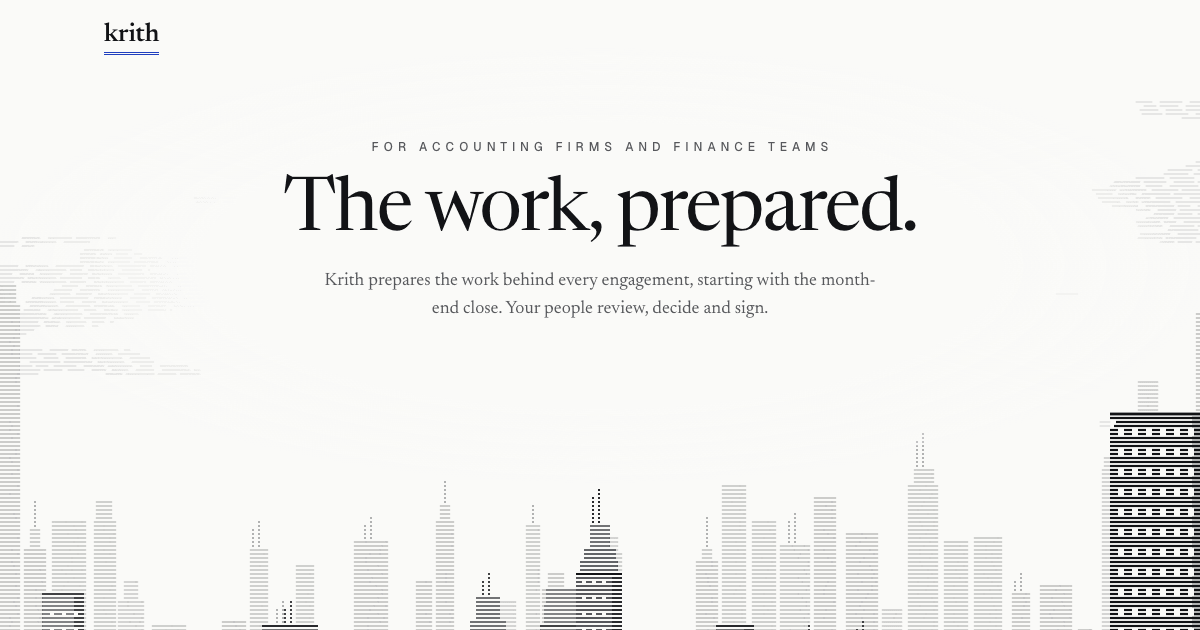
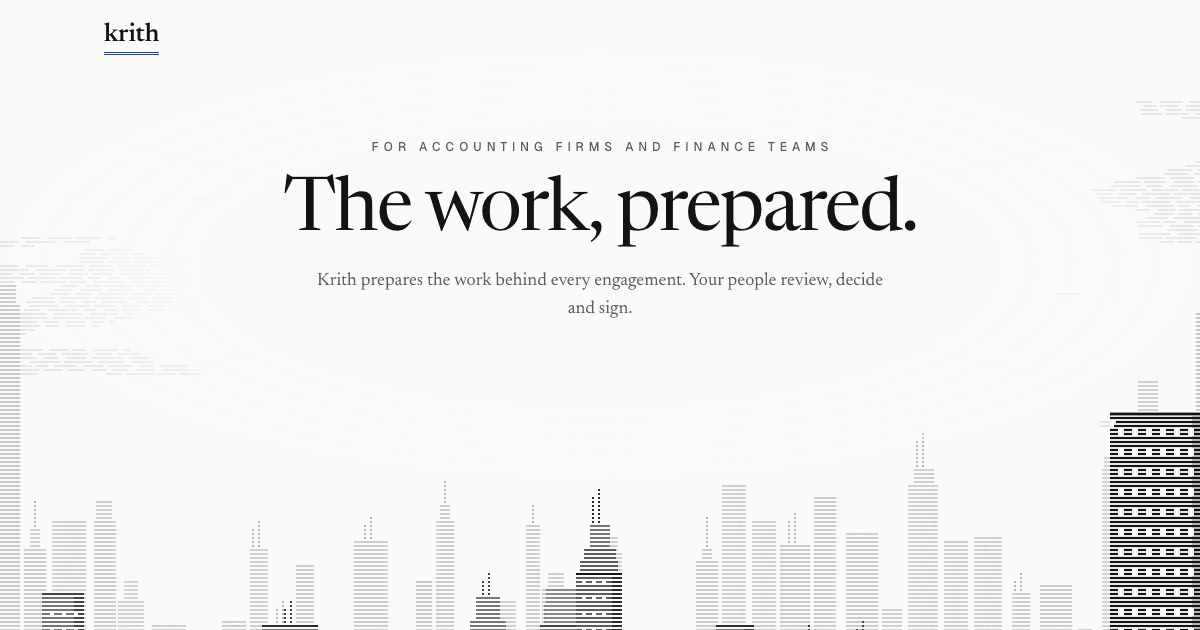
Public site: Krith as a whole, not the month-end close
The home title is the tagline again, "Krith · The work, prepared.".
Titles, descriptions, the company data, llms.txt and the pages' own
words describe Krith as AI agents that prepare the work behind every
engagement, rather than defining it by the month-end close: the home
and About ledes, About's why and its next section ("More of the work,
over time"), the FAQ's first answers, Contact's lede, example and
steps, and the privacy notice's lede (dated 12 October 2026). The
preview card is captured again from the new hero. Mechanics that need
the word stay as they are.

Changed region(s): [[0.2467, 0.4222, 0.74, 0.5127]]

diff --git a/apps/frontend/src/features/marketing/About.tsx b/apps/frontend/src/features/marketing/About.tsx
@@ -27,13 +27,13 @@ export function About() {
         <p className="k-label">About Krith</p>
         <h1>Krith means done.</h1>
         <p className="k-lede">
-          From the Sanskrit <i>kṛta</i>: done, made, accomplished. Krith prepares the work behind every engagement, starting with the month-end close, so your people can review, decide and sign.
+          From the Sanskrit <i>kṛta</i>: done, made, accomplished. Krith prepares the work behind every engagement, so your people can review, decide and sign.
         </p>
       </div>
       <section className="k-why" aria-labelledby="why-title">
         <h2 id="why-title">Why Krith</h2>
         <div>
-          <p>Much of a month-end close is preparation: gathering statements, matching every line, tracing each difference and drafting the entries. The judgement that matters comes at the end, and it belongs to the people who sign.</p>
+          <p>Much of accounting work is preparation: gathering statements, matching every line, tracing each difference and drafting the entries. The judgement that matters comes at the end, and it belongs to the people who sign.</p>
           <p>Krith gives that preparation to a team of agents and keeps every decision with your firm. Each figure carries its source, so whoever signs can see why it is right.</p>
         </div>
       </section>
@@ -70,10 +70,10 @@ export function About() {
         </div>
       </section>
       <section className="k-why" aria-labelledby="next-title">
-        <h2 id="next-title">Starting with the close</h2>
+        <h2 id="next-title">More of the work, over time</h2>
         <div>
-          <p>The month-end close is the work every engagement leans on. It is where much of the preparation sits, and where a missed detail travels furthest. So that is where Krith begins.</p>
-          <p>Next, we mean to take on the books between closes, the handoff at year end and the cash decisions that follow. Each joins only when the work before it holds up, under the same rules: agents prepare, every figure keeps its source, and a person decides.</p>
+          <p>Every engagement rests on the same preparation: gathering the records, matching them, tracing what doesn’t agree and drafting what a person will decide. That is the work Krith takes on.</p>
+          <p>We mean to take on more of it over time: the books day to day, the handoff at year end, the cash decisions that follow. Each joins only when the work before it holds up, under the same rules: agents prepare, every figure keeps its source, and a person decides.</p>
         </div>
       </section>
       <div className="k-after">

diff --git a/apps/frontend/index.html b/apps/frontend/index.html
@@ -1,2 +1,2 @@
 <!doctype html>
-<html lang="en"><head><meta charset="UTF-8" /><meta name="referrer" content="no-referrer" /><meta name="viewport" content="width=device-width, initial-scale=1.0" /><meta name="theme-color" content="#fafaf8" /><meta name="description" content="Krith prepares the work behind every engagement, starting with the month-end close. Your people review, decide and sign." /><title>Krith · The work, prepared.</title><link rel="icon" href="/favicon.ico" sizes="32x32" /><link rel="apple-touch-icon" href="/apple-touch-icon.png" /><meta property="og:type" content="website" /><meta property="og:site_name" content="Krith" /><meta property="og:title" content="Krith · The work, prepared." /><meta property="og:description" content="Krith prepares the work behind every engagement, starting with the month-end close. Your people review, decide and sign." /><meta property="og:url" content="https://getkrith.com/" /><meta property="og:image" content="https://getkrith.com/og.png" /><meta property="og:image:width" content="1200" /><meta property="og:image:height" content="630" /><meta property="og:image:alt" content="Krith: the work, prepared." /><meta name="twitter:card" content="summary_large_image" /></head><body><div id="root"></div><script type="module" src="/src/main.tsx"></script></body></html>
+<html lang="en"><head><meta charset="UTF-8" /><meta name="referrer" content="no-referrer" /><meta name="viewport" content="width=device-width, initial-scale=1.0" /><meta name="theme-color" content="#fafaf8" /><meta name="description" content="Krith prepares the work behind every engagement. Your people review, decide and sign." /><title>Krith · The work, prepared.</title><link rel="icon" href="/favicon.ico" sizes="32x32" /><link rel="apple-touch-icon" href="/apple-touch-icon.png" /><meta property="og:type" content="website" /><meta property="og:site_name" content="Krith" /><meta property="og:title" content="Krith · The work, prepared." /><meta property="og:description" content="Krith prepares the work behind every engagement. Your people review, decide and sign." /><meta property="og:url" content="https://getkrith.com/" /><meta property="og:image" content="https://getkrith.com/og.png" /><meta property="og:image:width" content="1200" /><meta property="og:image:height" content="630" /><meta property="og:image:alt" content="Krith: the work, prepared." /><meta name="twitter:card" content="summary_large_image" /></head><body><div id="root"></div><script type="module" src="/src/main.tsx"></script></body></html>

diff --git a/apps/frontend/src/features/marketing/meta.ts b/apps/frontend/src/features/marketing/meta.ts
@@ -4,15 +4,15 @@ export type PageMeta = { title: string; description: string };
 
 const PAGES: Record<string, PageMeta> = {
   "/": {
-    title: "Krith · The work, prepared. AI agents for the month-end close",
-    description: "Krith’s AI agents prepare the work behind every engagement for accounting firms, starting with the month-end close. Your people review, decide and sign.",
+    title: "Krith · The work, prepared.",
+    description: "Krith’s AI agents prepare the work behind every engagement for accounting firms and finance teams. Your people review, decide and sign.",
   },
   "/about": {
-    title: "About Krith · Agents prepare the close, people sign",
-    description: "Krith means done. Its AI agents take on the preparation behind a month-end close, and every decision stays with the accounting firm that signs.",
+    title: "About Krith · Agents prepare, people sign",
+    description: "Krith means done. Its AI agents take on the preparation behind an accounting firm’s work, and every decision stays with the people who sign.",
   },
   "/faq": {
-    title: "Krith FAQ · AI close preparation for accounting firms",
+    title: "Krith FAQ · AI agents for accounting firms",
     description: "What accounting firms ask about Krith: what its AI agents prepare, who approves the work, where client data is stored, and how to start.",
   },
   "/security": {
@@ -24,8 +24,8 @@ const PAGES: Record<string, PageMeta> = {
     description: "How Krith handles information on its website and in the Krith workspace: what is collected, who sees it, where it is stored and your choices.",
   },
   "/contact": {
-    title: "Talk to us · See Krith prepare one of your closes",
-    description: "Tell us how your accounting firm works and where month-end takes its time. A person reads every note and replies, then shows you the work, prepared.",
+    title: "Talk to us · Krith",
+    description: "Tell us how your accounting firm works and where its hours go. A person reads every note and replies, then shows you the work, prepared.",
   },
   "/login": {
     title: "Log in · Krith",

diff --git a/apps/frontend/src/features/marketing/Faq.tsx b/apps/frontend/src/features/marketing/Faq.tsx
@@ -12,9 +12,9 @@ const TOPICS: Topic[] = [
     mark: "PR",
     name: "The product",
     entries: [
-      { q: "What is Krith?", a: "A team of AI agents that prepares the work behind an accounting firm’s engagements, starting with the month-end close. The agents do the preparation; your people review it, decide and sign." },
-      { q: "Who is it for?", a: "Accounting firms and finance teams that close books every month, for their clients or for their own company." },
-      { q: "What does Krith prepare?", a: "The work that comes before a signature: gathering statements and documents, matching statement lines to the ledger, tracing each difference to its source, drafting entries and schedules, and drafting questions for whatever is missing. A close arrives ready for review, with what needs a decision on top." },
+      { q: "What is Krith?", a: "A team of AI agents that prepares the work behind an accounting firm’s engagements. The agents do the preparation; your people review it, decide and sign." },
+      { q: "Who is it for?", a: "Accounting firms and finance teams that keep and review books, for their clients or for their own company." },
+      { q: "What does Krith prepare?", a: "The work that comes before a signature: gathering statements and documents, matching statement lines to the ledger, tracing each difference to its source, drafting entries and schedules, and drafting questions for whatever is missing. The work arrives ready for review, with what needs a decision on top." },
       { q: "Does it replace our accounting software?", a: "No. Your ledger stays the book of record. Krith reads it once a firm member connects it, and writes to it only an entry a person has approved, one at a time. Writing stays off until your firm turns it on." },
       { q: "Which ledgers does it connect to?", a: "QuickBooks Online and Xero, connected by a firm member for each client. If your clients keep their books somewhere else, talk to us." },
     ],

diff --git a/apps/frontend/src/features/marketing/Home.tsx b/apps/frontend/src/features/marketing/Home.tsx
@@ -13,7 +13,7 @@ export function Home() {
       <Hero />
       <AgentsAtWork />
       <section className="k-col k-start" id="start" aria-labelledby="start-title">
-        <h2 id="start-title">See one of your closes, prepared.</h2>
+        <h2 id="start-title">See your own work, prepared.</h2>
         <p className="k-lede">Tell us how your firm works. We’ll show you what the agents prepare, and what they leave for you.</p>
         <div className="k-signhere">
           <span className="k-x" aria-hidden="true">
@@ -56,7 +56,7 @@ function Hero() {
       <div className="k-copy" ref={copy}>
         <p className="k-eyebrow">For accounting firms and finance teams</p>
         <h1 id="title">The work, prepared.</h1>
-        <p className="k-sub">Krith prepares the work behind every engagement, starting with the month-end close. Your people review, decide and sign.</p>
+        <p className="k-sub">Krith prepares the work behind every engagement. Your people review, decide and sign.</p>
         <span className="k-bracket">
           <Link className="k-pill k-pill-lg" to="/contact">
             Talk to us <span aria-hidden="true">→</span>
@@ -145,7 +145,7 @@ function AgentsAtWork() {
         <span>Prepared to the cent.</span>
         <span className="k-yours">Signed by you.</span>
       </h2>
-      <p className="k-lede">On every close, a team of agents gathers the evidence, matches every line, traces each difference and drafts the entries. You review their work and sign.</p>
+      <p className="k-lede">On every engagement, a team of agents gathers the evidence, matches every line, traces each difference and drafts the entries. You review their work and sign.</p>
       <div className="k-stage">
         <figure className="k-ledger" aria-label="Illustrative bank reconciliation prepared by agents and signed by a reviewer">
           <div className="k-lhead">

diff --git a/apps/frontend/src/features/marketing/Contact.tsx b/apps/frontend/src/features/marketing/Contact.tsx
@@ -43,7 +43,7 @@ export function Contact() {
       <div className="k-page-head">
         <p className="k-label">Contact</p>
         <h1>Talk to us.</h1>
-        <p className="k-lede">Tell us how your firm works and where month-end takes its time. A person reads every note and replies.</p>
+        <p className="k-lede">Tell us how your firm works and where its hours go. A person reads every note and replies.</p>
       </div>
       <div className="k-contact">
         <div>
@@ -73,7 +73,7 @@ export function Contact() {
                 <label htmlFor="contact-note">
                   What should we know? <small>Optional</small>
                 </label>
-                <textarea id="contact-note" name="note" rows={4} maxLength={4000} placeholder="For example: 40 clients on QuickBooks Online, and most closes take a week." />
+                <textarea id="contact-note" name="note" rows={4} maxLength={4000} placeholder="For example: 40 clients on QuickBooks Online, and what takes your team the longest." />
               </p>
               {/* Left empty by people; a form filled in by a script usually completes it. */}
               <p className="k-trap" aria-hidden="true">
@@ -106,7 +106,7 @@ export function Contact() {
             </li>
             <li>
               <span>
-                <b>We talk through</b> how your firm prepares and reviews its closes.
+                <b>We talk through</b> how your firm prepares and reviews its work.
               </span>
             </li>
             <li>

diff --git a/apps/frontend/src/features/marketing/Privacy.tsx b/apps/frontend/src/features/marketing/Privacy.tsx
@@ -3,7 +3,7 @@ import { MAILBOX } from "./Contact";
 
 // The privacy notice. Each statement follows what the service does today; when the code changes, change the page and
 // its date (docs/marketing-site.md).
-const updated = "11 October 2026";
+const updated = "12 October 2026";
 
 export function Privacy() {
   return (
@@ -11,7 +11,7 @@ export function Privacy() {
       <div className="k-page-head">
         <p className="k-label">Trust</p>
         <h1>Privacy notice</h1>
-        <p className="k-lede">How Krith handles information on this website and in the Krith workspace, where accounting firms prepare their clients’ closes.</p>
+        <p className="k-lede">How Krith handles information on this website and in the Krith workspace, where accounting firms prepare their clients’ work.</p>
       </div>
       <article className="k-doc">
         <p className="k-upd">Last updated {updated}</p>

diff --git a/apps/frontend/src/features/marketing/schema.tsx b/apps/frontend/src/features/marketing/schema.tsx
@@ -8,7 +8,7 @@ export const organization = {
   name: "Krith",
   url: SITE,
   logo: `${SITE}/logo.png`,
-  description: "Krith is a team of AI agents that prepares accounting work for firms, starting with the month-end close. People review, decide and sign.",
+  description: "Krith is a team of AI agents that prepares the work behind accounting firms’ and finance teams’ engagements. People review, decide and sign.",
   foundingDate: "2026",
   foundingLocation: { "@type": "Place", name: "New York, NY" },
   address: { "@type": "PostalAddress", addressLocality: "New York", addressRegion: "NY", addressCountry: "US" },

diff --git a/docs/marketing-site.md b/docs/marketing-site.md
@@ -6,12 +6,12 @@ The public site at getkrith.com introduces Krith to accounting firms and finance
 
 | Page | Route | What it holds |
 | --- | --- | --- |
-| Home | `/` | The hero (`#top`), Agents at work (`#how`) and "See one of your closes, prepared" (`#start`) |
+| Home | `/` | The hero (`#top`), Agents at work (`#how`) and "See your own work, prepared" (`#start`) |
 | Contact | `/contact` | The contact form, three plain next steps and hello@getkrith.com |
 | Security | `/security` | Nine short controls: authority, evidence, separation, encryption, uploads, AI, staff access, hosting and the firm's control |
 | Privacy notice | `/privacy` | The notice: what is collected and why, who else sees it, the technology behind Krith and how long data is kept. Since 2026-10-11 it describes providers only by kind, with examples (Cloudflare and Amazon Web Services for hosting; OpenAI, Anthropic and Google for AI), says each firm's data is walled off from every other firm's, and offers a firm the current provider list on request. It names no internal setup: no database vendor or location beyond the United States, no sign-in or email vendor, no model routing |
 | FAQ | `/faq` | "Asked and answered.": an index set like the home page's workpaper (each topic with its two-letter mark and count, the total over a double rule), then four topics (the product, working with the agents, your data, getting started) of questions that open one at a time (`<details>`), each topic ending in a link to the page that says more, and a ruled "Talk to us". Every answer says what Security, Privacy and About say, in the same terms and only what the service does today; change them together |
-| About | `/about` | The page is about Krith first, in this order: "Krith means done" (from the Sanskrit *kṛta*), a short why, three principles that restate Security's authority, evidence and separation controls (change both together), **Working with Krith** (agents as a team rather than software to operate; three cards: hand it a goal, ask in plain words, start with the decisions), **Starting with the close** (why the close comes first and, stated as intent, what follows it; then "Talk to us"), and the company file at the bottom. It stays high level on purpose: how working with the agents feels, never feature lists, named integrations, figures or customers. Claims about the product hold for it today; what comes next is said as intent. The file lists who Krith is for, when and where it was founded (2026, New York) and its headquarters (New York City). It names no person: personal detail is kept out on purpose. The same facts and a one-line description are on the page as schema.org `Organization` data for search engines and anyone verifying the company |
+| About | `/about` | The page is about Krith first, in this order: "Krith means done" (from the Sanskrit *kṛta*), a short why, three principles that restate Security's authority, evidence and separation controls (change both together), **Working with Krith** (agents as a team rather than software to operate; three cards: hand it a goal, ask in plain words, start with the decisions), **More of the work, over time** (the preparation every engagement rests on and, stated as intent, the work Krith means to take on next; then "Talk to us"), and the company file at the bottom. It stays high level on purpose: how working with the agents feels, never feature lists, named integrations, figures or customers. Claims about the product hold for it today; what comes next is said as intent. The file lists who Krith is for, when and where it was founded (2026, New York) and its headquarters (New York City). It names no person: personal detail is kept out on purpose. The same facts and a one-line description are on the page as schema.org `Organization` data for search engines and anyone verifying the company |
 | Log in | `/login` | **Continue with Google**, company accounts only, and "Talk to us" for firms on Microsoft 365 ([sign-in](sign-in.md)); a signed-in visitor goes to the workspace |
 | Not found | any other path | A short page with a link home |
 
@@ -25,7 +25,9 @@ Earlier pages (`/subprocessors`, `/ai`, `/data-retention`, `/pilot-terms`) were 
 
 The app draws every page in the browser, so its built `index.html` alone is an empty shell. A visitor or checker that does not run JavaScript would see a blank page, so the build also writes the home, security, privacy, about, FAQ and contact pages as static HTML: `npm run build -w @close/frontend` ends with `npm run prerender`, which renders `src/prerender.tsx` (the same routes as the app, `features/marketing/routes.tsx`) into `dist/static-home.html`, `security.html`, `privacy.html`, `about.html`, `faq.html` and `contact.html`. Cloudflare serves `/security`, `/privacy`, `/about`, `/faq` and `/contact` from those files; the edge worker serves `/` from `static-home.html` and redirects `/static-home` to `/` (both in `run_worker_first`), because `index.html` stays the shell every app route loads. Contact's form posts only through the app: its Send button stays off until the app runs, and the form's `method="post"` keeps a visitor's details out of any URL. The build also writes the shell as `login.html` and `request.html`, and the not-found page as `404.html`: the assets use `not_found_handling: "404-page"`, so any path that is neither a file nor one of these pages answers with a real 404 and that page (marked `noindex`). The workspace pages ask the assets for `/`, which is `index.html`, rather than for their own path.
 
-Each page's title and description live in `features/marketing/meta.ts`: the title names Krith and what the page is in the words people search with, within about 60 characters, and the description says it in a sentence. The build writes them, with the link-preview tags (`og:title`, `og:description`, `og:url`) and the page's canonical address (`<link rel="canonical">`; not on the not-found page), into each page's static HTML, and the layout sets the title and description as a visitor moves between pages. `index.html` carries the home page's, which the shells and the client request page keep, plus the site-wide preview image `public/og.png` (1200×630: the home hero, captured with reduced motion and without the header's links and buttons; capture it again when the hero changes), `favicon.ico` (16, 32 and 48 px) and `apple-touch-icon.png`, both the wordmark's *k* over its double blue rule. `public/sitemap.xml` lists the public pages, `robots.txt` points to it, and `public/.well-known/security.txt` names the contact page and hello@getkrith.com for security reports; renew its `Expires` date before 2027-10-12. In the browser the app then renders the same page over the static copy, so it looks the same once loaded. A render must not read `window` (the build renders without a browser); effects may. `public/robots.txt` keeps crawlers off the workspace, admin, client request and sign-in pages.
+Each page's title and description live in `features/marketing/meta.ts`: the home page's title is the tagline, "Krith · The work, prepared."; another page's names Krith and what the page is, within about 60 characters; the description says it in a sentence.
+
+**Krith as a whole, not one feature.** The site describes Krith as AI agents that prepare the work behind every engagement for accounting firms and finance teams. The month-end close, a bank reconciliation and the other kinds of work are examples or features, never the definition, so the words still hold as Krith takes on more. Mechanics stay exact where they matter (a person signs off a close; a firm can download a close before deleting it). The build writes them, with the link-preview tags (`og:title`, `og:description`, `og:url`) and the page's canonical address (`<link rel="canonical">`; not on the not-found page), into each page's static HTML, and the layout sets the title and description as a visitor moves between pages. `index.html` carries the home page's, which the shells and the client request page keep, plus the site-wide preview image `public/og.png` (1200×630: the home hero, captured with reduced motion and without the header's links and buttons; capture it again when the hero changes), `favicon.ico` (16, 32 and 48 px) and `apple-touch-icon.png`, both the wordmark's *k* over its double blue rule. `public/sitemap.xml` lists the public pages, `robots.txt` points to it, and `public/.well-known/security.txt` names the contact page and hello@getkrith.com for security reports; renew its `Expires` date before 2027-10-12. In the browser the app then renders the same page over the static copy, so it looks the same once loaded. A render must not read `window` (the build renders without a browser); effects may. `public/robots.txt` keeps crawlers off the workspace, admin, client request and sign-in pages.
 
 Plain `http://` is redirected to `https://` by the zone's **Always Use HTTPS** setting in Cloudflare (SSL/TLS → Edge Certificates), not by the worker, which does not run for most static pages.
 
